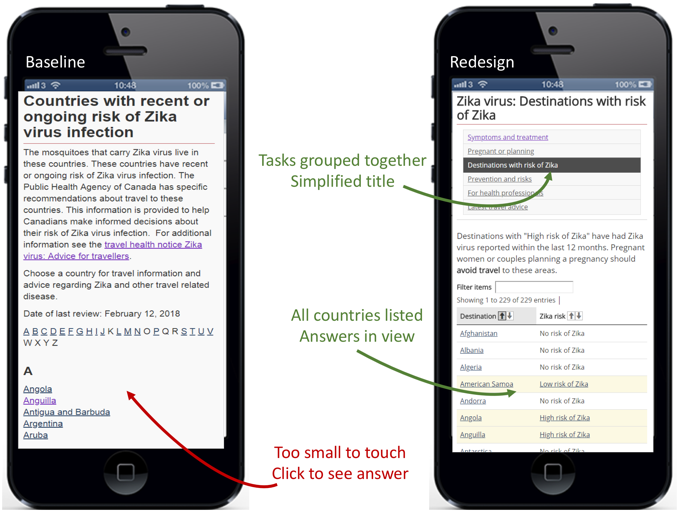
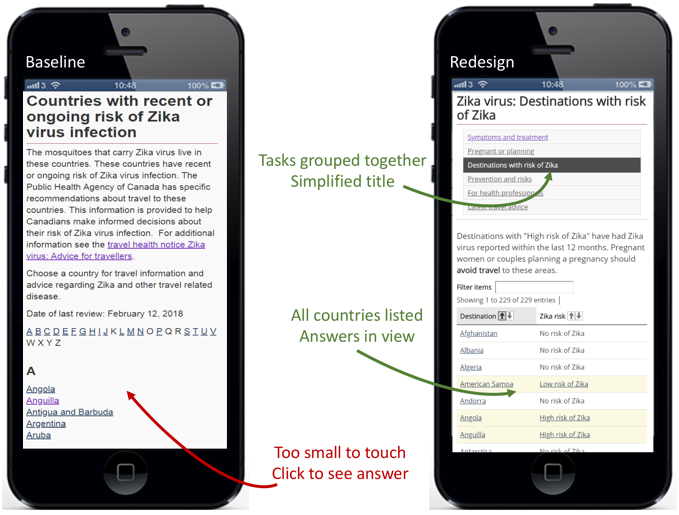
img setup

Changed region(s): [[0.0, 0.1864, 0.3402, 0.8699], [0.3093, 0.8388, 0.3402, 0.8699]]

diff --git a/research-summaries/frenchplaceholder.html b/research-summaries/frenchplaceholder.html
@@ -177,7 +177,7 @@ DESCRIPTION NEEDS TO GO HERE
 
 <p>Throughout the design process, we tested content with people through small, informal “guerilla” sessions. These tests revealed problems with our designs that we were able to address before full-scale moderated usability testing.</p>
 
-<p><img class="img-responsive" alt="Smartphones showing the Zika page before and after redesign. Detailed description follows." src="../images/diseases-maladies-immun/zika_phones.png" /></p>
+<p><img class="img-responsive" alt="Smartphones showing the Zika page before and after redesign. Detailed description follows." src="../images/diseases-maladies-immun/zika_telephones.png" /></p>
 <figure>
 <figcaption><small>Destinations with Zika page at baseline and after mobile redesign for validation</small></figcaption>
 <details>
@@ -187,7 +187,7 @@ Detailed description
 <p>
 Two smartphones are shown with 2 different web pages. One is labelled "Baseline", the other "Redesign". In the "Baseline" page, the title is "Countries with recent or ongoing risk of Zika virus infection", followed by 2 long paragraphs of text that are too small to read. Following that is a list of countries beginning with "A", starting with Angola, Anguilla, Antigua and Barbuda, Argentina, and Aruba. An arrow points to the country list with an annotation "Too small to touch. Click to see answer.".</p>
 <p>
-In the "Redesign" page, the title is "Zika cirus: Destinations with risk of Zika". Below is a list of 6 links that are too small to read, one of which is highlighted. An arrow points to the highlighted link with the annotation "Tasks grouped together. Simplified title".</p>
+In the "Redesign" page, the title is "Zika virus: Destinations with risk of Zika". Below is a list of 6 links that are too small to read, one of which is highlighted. An arrow points to the highlighted link with the annotation "Tasks grouped together. Simplified title".</p>
 <p>
 Below that is a short paragraph of text too small to read, followed by a search box and a table showing countries with "No risk of Zika", "Low risk of Zika" or "High risk of Zika" next to them. An arrow points to the countries with an annotation "All countries listed. Answers in view."
 </p>
